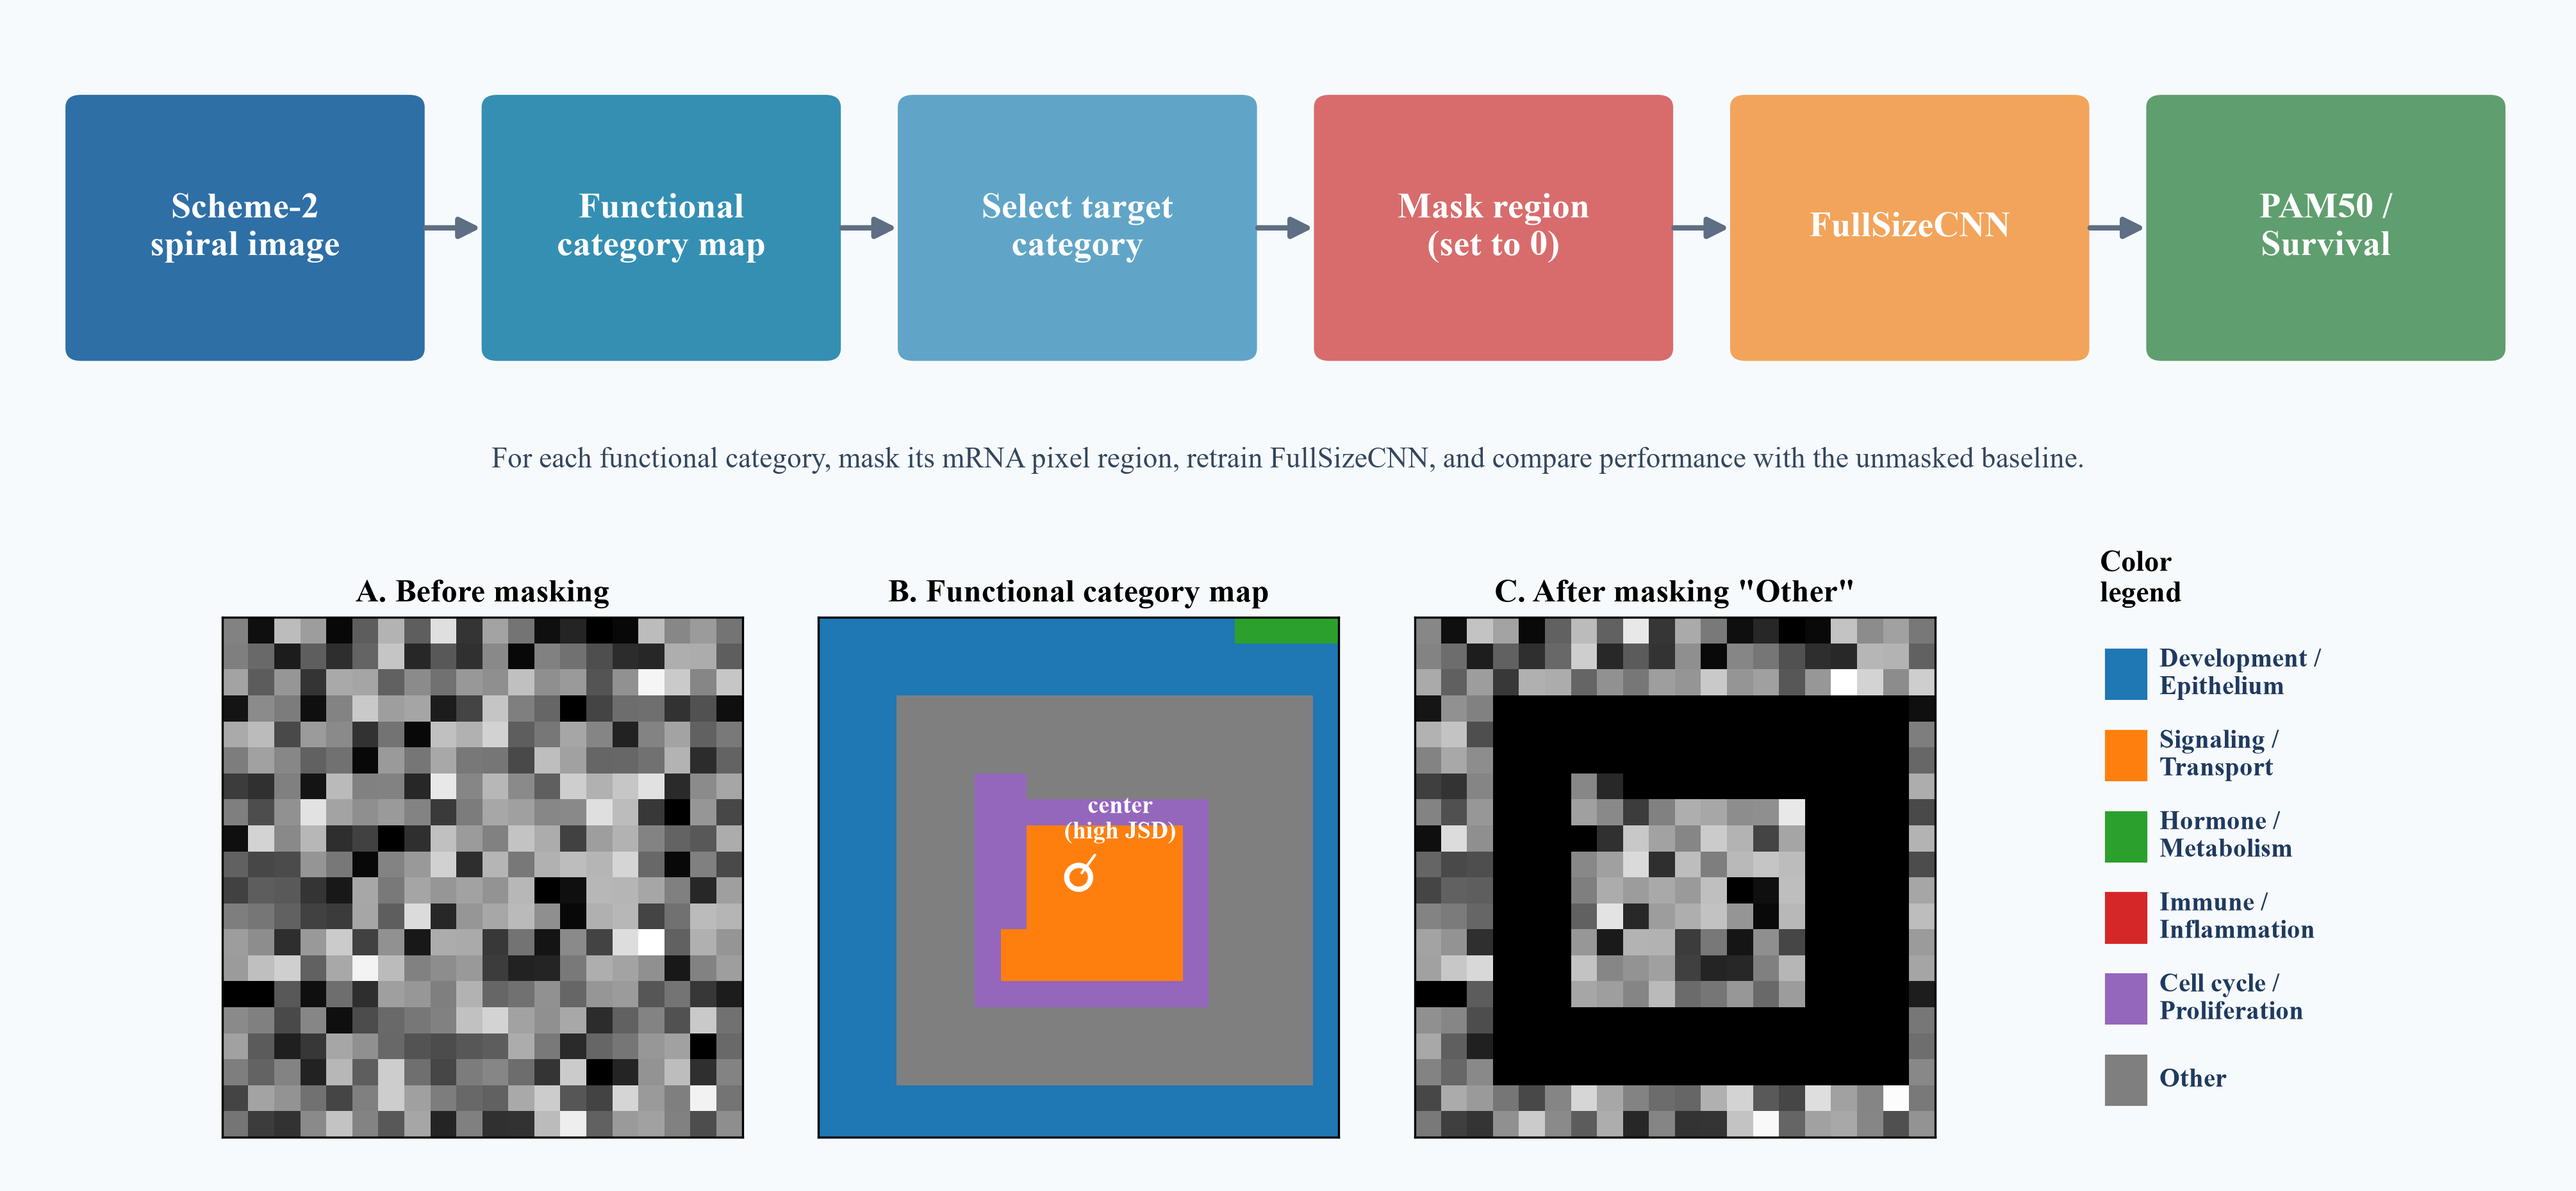
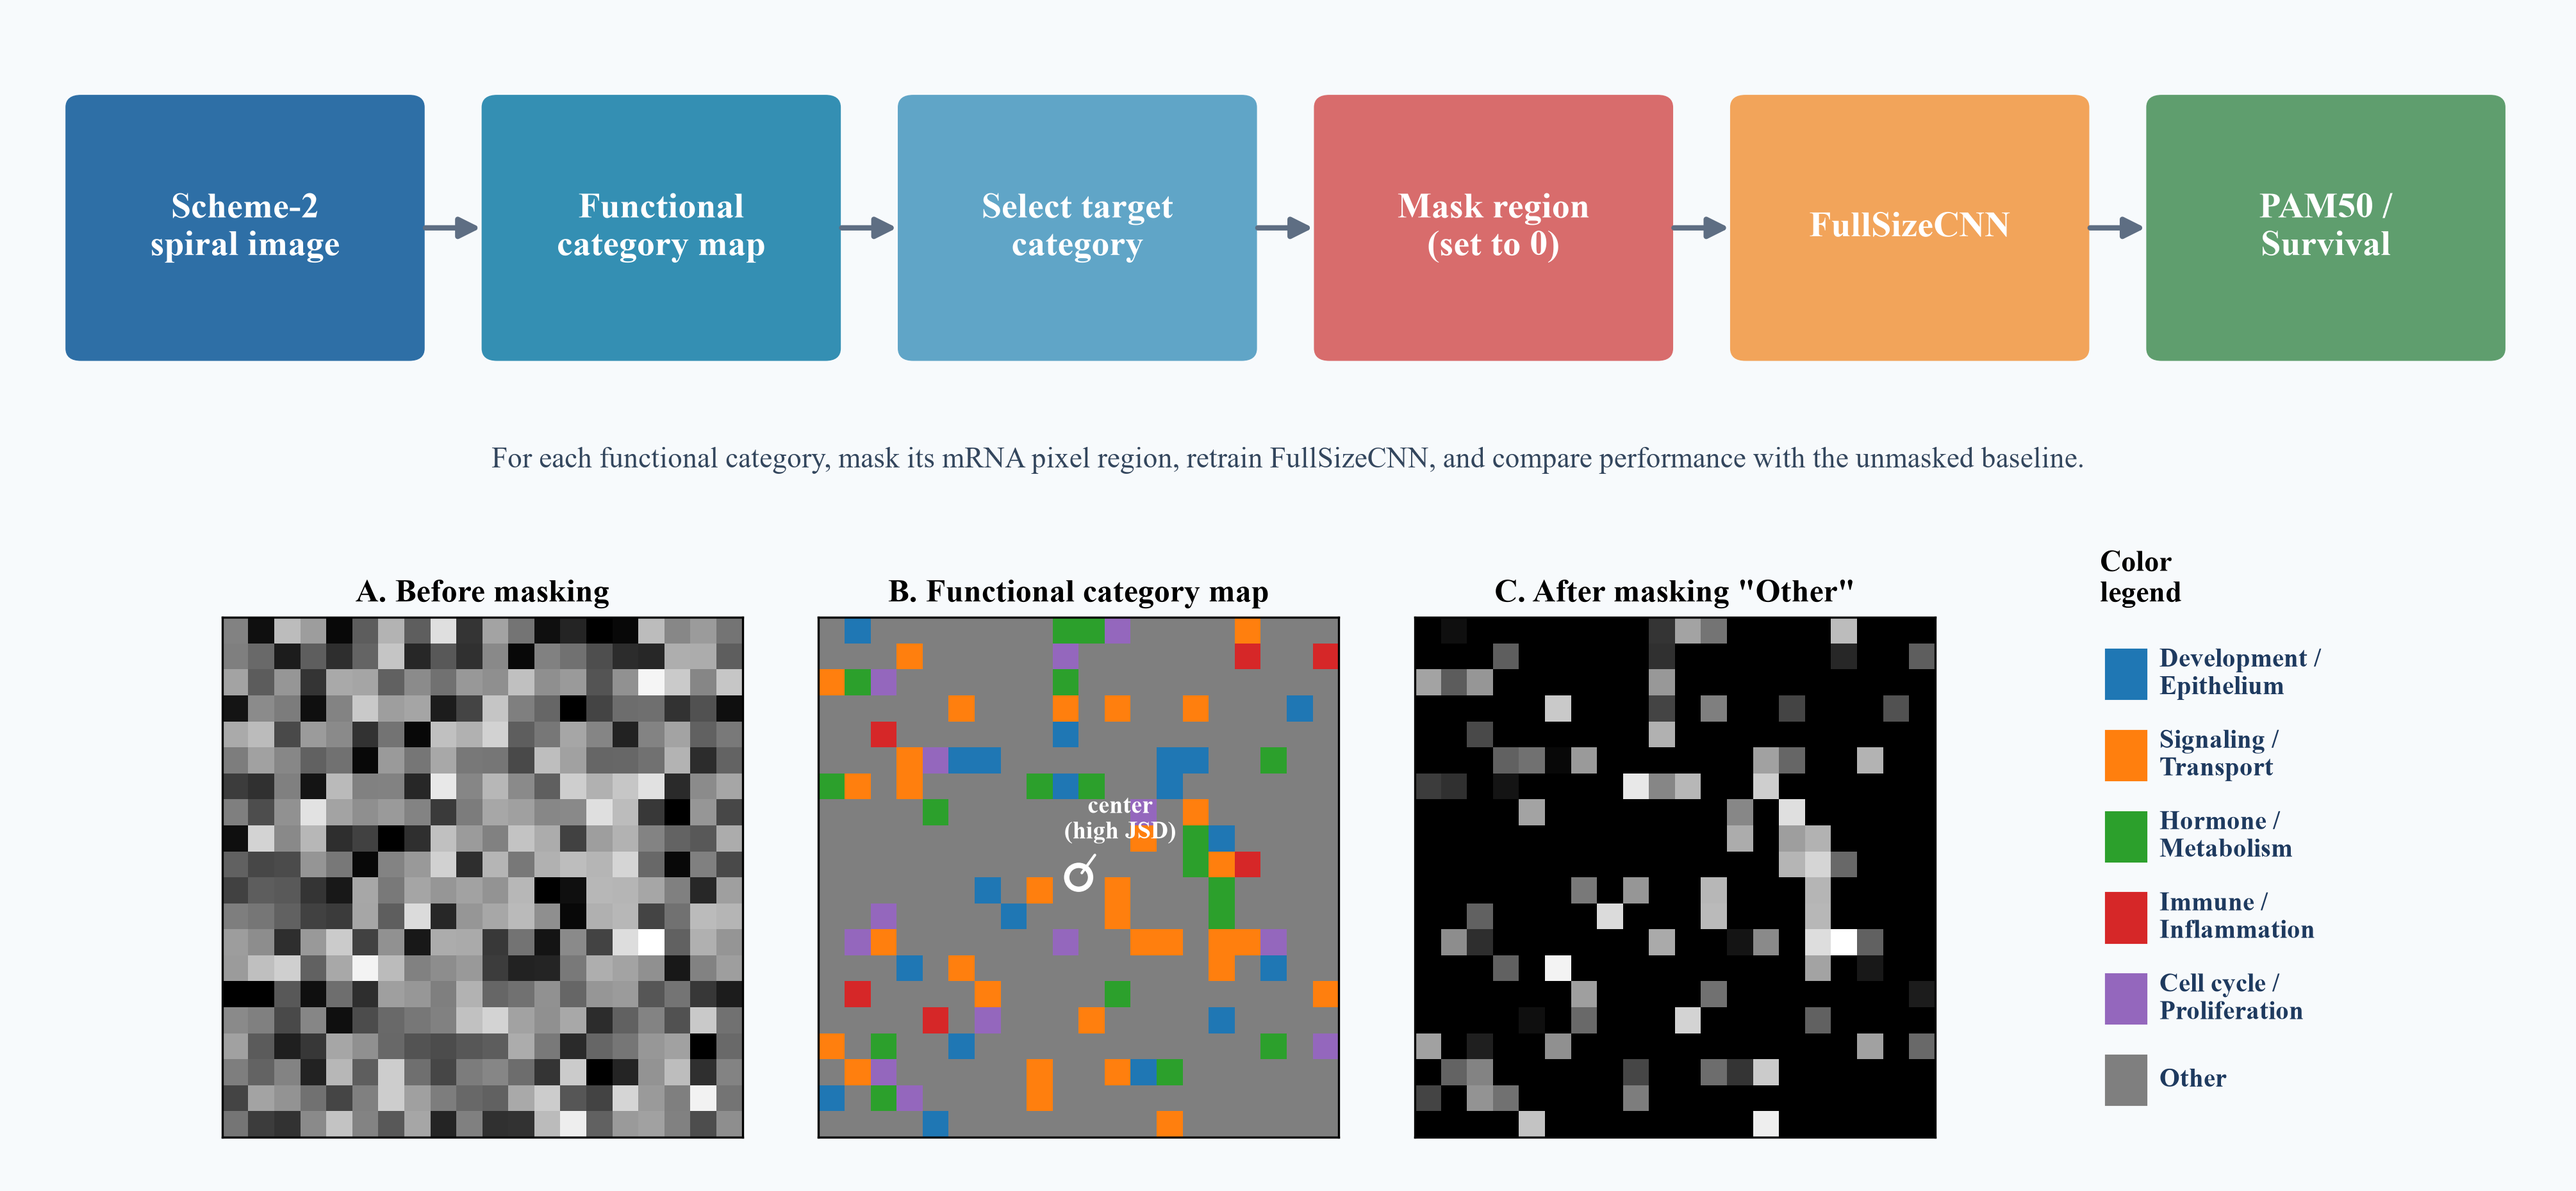
Regenerate category maps and masking-flow figure with corrected categories

Changed region(s): [[0.3109, 0.4989, 0.7774, 0.9667]]

diff --git a/scripts/regenerate_category_maps.py b/scripts/regenerate_category_maps.py
@@ -1,0 +1,51 @@
+# -*- coding: utf-8 -*-
+"""Regenerate the single-sample mRNA functional-category maps with the
+corrected category assignment (in JSD order)."""
+import sys
+from pathlib import Path
+
+import matplotlib
+matplotlib.use("Agg")
+import matplotlib.pyplot as plt
+import numpy as np
+import pandas as pd
+
+ROOT = Path(r"E:\组学数据图像化")
+GH = ROOT / "github_release"
+D = GH / "data"
+sys.path.insert(0, str(ROOT / "scripts"))
+from fix_mrna_categories import assign, CATEGORY_NAMES  # noqa: E402
+sys.path.insert(0, str(GH / "scripts"))
+from run_multistream_cnn import spiral_order  # noqa: E402
+
+CAT_COLORS = ["#1f77b4", "#ff7f0e", "#2ca02c", "#d62728", "#9467bd", "#7f7f7f"]
+
+
+def main():
+    for task, size, out, order_path in [
+        ("PAM50", 20, D / "images/examples/mRNA_gene_category_map.png", D / "images/PAM50/mRNA/order.tsv"),
+        ("Survival", 15, D / "images/examples/Survival_mRNA_gene_category_map.png", D / "images/Survival/mRNA/order.tsv"),
+    ]:
+        order_tsv = pd.read_csv(order_path, sep="\t")
+        feats = order_tsv["feature"].astype(str).tolist()
+        cat = np.array([assign(f) for f in feats], dtype=int)
+        grid = np.full((size, size), 5, dtype=int)
+        positions = spiral_order(size)
+        for (r, c), j in zip(positions, range(len(feats))):
+            grid[r, c] = cat[j]
+        cmap = matplotlib.colors.ListedColormap(CAT_COLORS)
+        fig, ax = plt.subplots(figsize=(4.2, 4.2))
+        ax.imshow(grid, cmap=cmap, vmin=0, vmax=5, aspect="equal")
+        ax.set_xticks([]); ax.set_yticks([])
+        import matplotlib.patches as mpatches
+        patches = [mpatches.Patch(color=CAT_COLORS[i], label=CATEGORY_NAMES[i]) for i in range(6)]
+        ax.legend(handles=patches, bbox_to_anchor=(1.02, 1), loc="upper left", fontsize=7, frameon=False)
+        fig.tight_layout()
+        fig.savefig(out, dpi=200, bbox_inches="tight")
+        plt.close(fig)
+        print("saved:", out)
+    return 0
+
+
+if __name__ == "__main__":
+    sys.exit(main())
